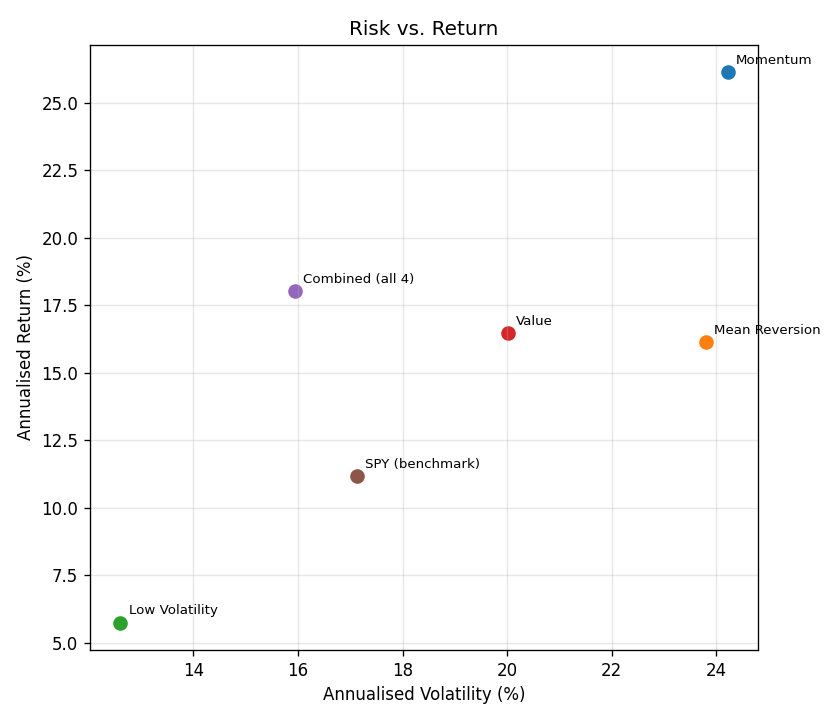
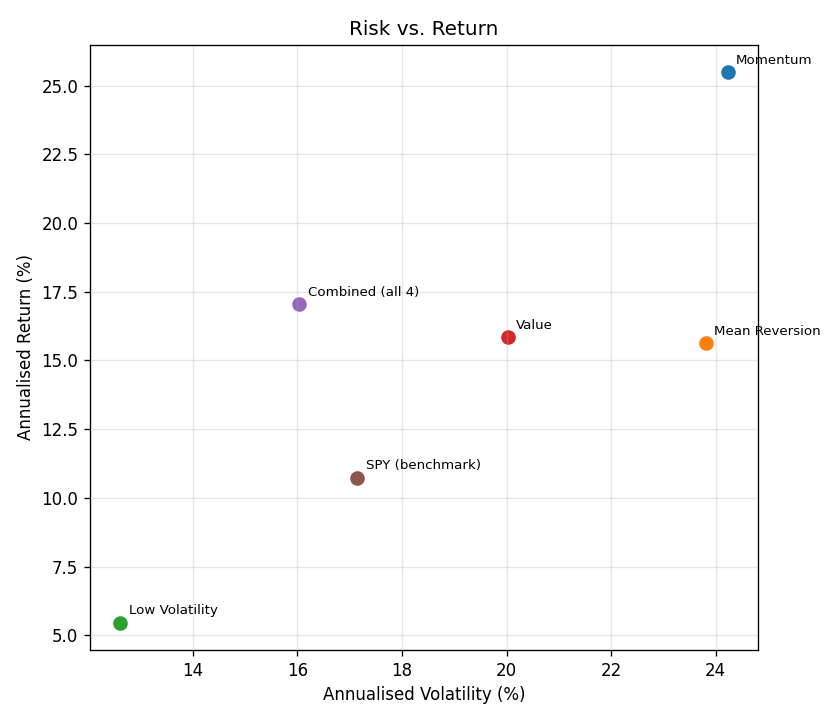
chore: refresh backtest report [skip ci]

diff --git a/reports/output/summary.md b/reports/output/summary.md
@@ -2,11 +2,11 @@
 
 | Strategy | Ann. Return | Ann. Vol | Sharpe | Max DD | Excess Ret | Info Ratio |
 |---|---:|---:|---:|---:|---:|---:|
-| Momentum | 26.12% | 24.21% | 0.92 | -28.96% | 15.00% | 0.82 |
-| Mean Reversion | 16.12% | 23.79% | 0.58 | -28.84% | 5.00% | 0.38 |
-| Low Volatility | 5.74% | 12.61% | 0.19 | -18.43% | -5.38% | -0.38 |
-| Value | 16.47% | 20.01% | 0.66 | -23.87% | 5.35% | 0.40 |
-| Combined (all 4) | 18.01% | 15.95% | 0.87 | -22.41% | 6.89% | 0.51 |
-| SPY (benchmark) | 11.17% | 17.13% | 0.47 | -24.50% | - | - |
+| Momentum | 25.48% | 24.22% | 0.89 | -28.96% | 14.79% | 0.81 |
+| Mean Reversion | 15.63% | 23.80% | 0.56 | -28.84% | 4.94% | 0.37 |
+| Low Volatility | 5.47% | 12.62% | 0.17 | -18.43% | -5.22% | -0.37 |
+| Value | 15.85% | 20.02% | 0.64 | -23.87% | 5.16% | 0.39 |
+| Combined (all 4) | 17.05% | 16.04% | 0.81 | -22.41% | 6.36% | 0.47 |
+| SPY (benchmark) | 10.74% | 17.15% | 0.45 | -24.50% | - | - |
 
 See docs/decisions.md for methodology, assumptions, and known limitations (survivorship bias, point-in-time Value signal construction, sample size).
